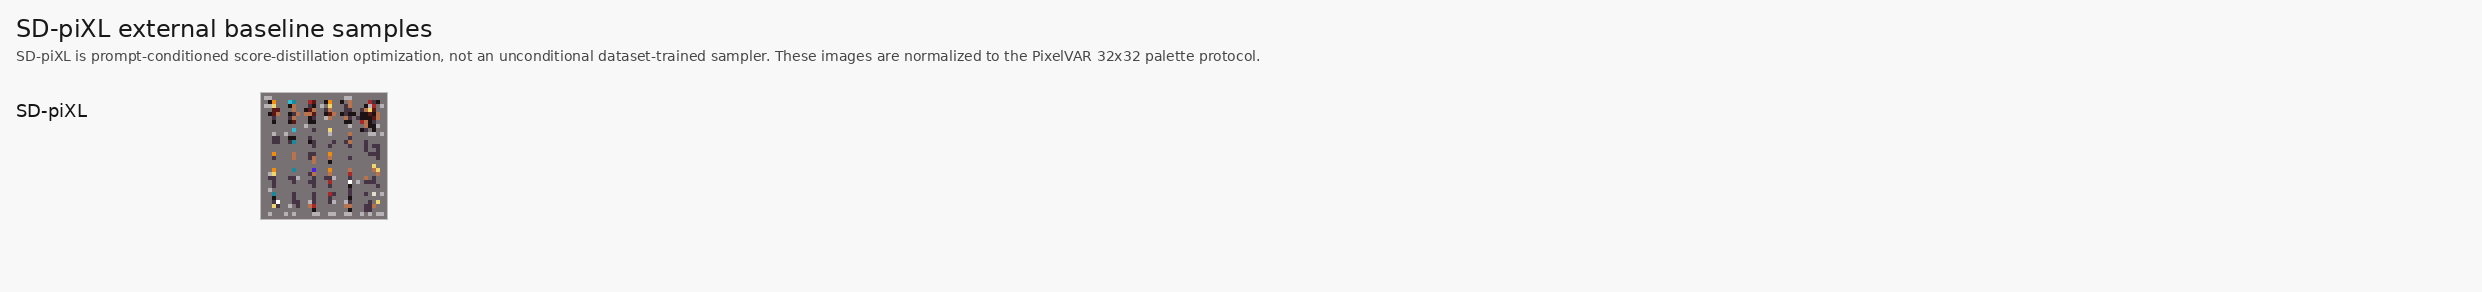
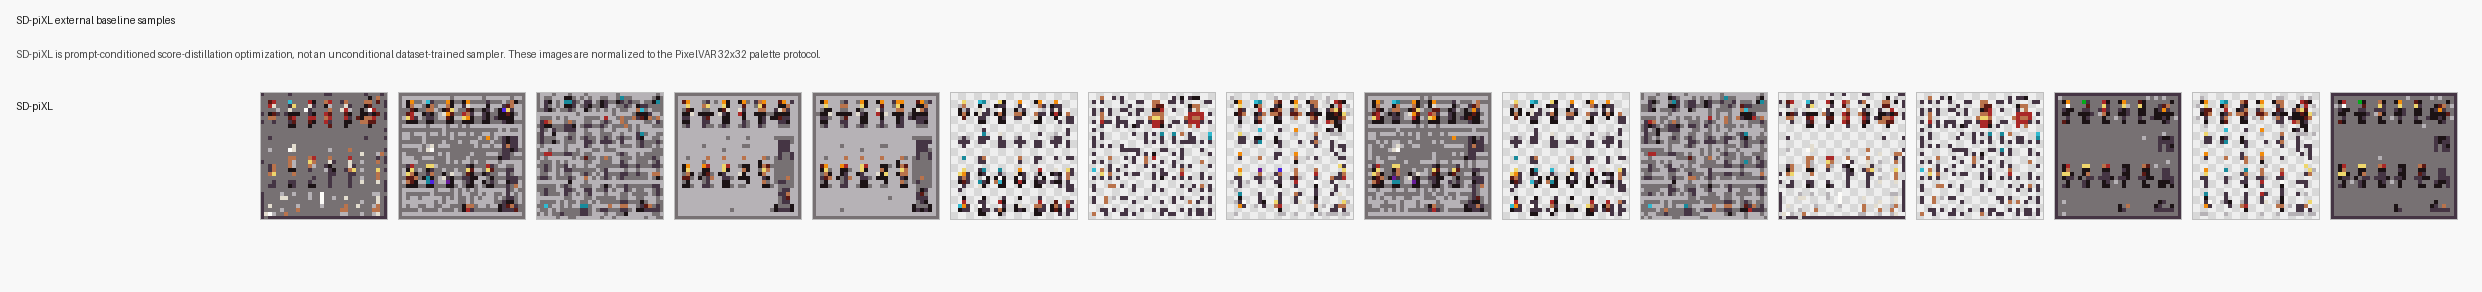
Run SD-piXL metric batch

diff --git a/modal_train.py b/modal_train.py
@@ -903,6 +903,12 @@ def commands_for_action(
             )
 
         prepare_cmd = sd_pixl_prepare_cmd("pixelvar_sd_pixl.yaml", seed=0, prompt_index=sd_pixl_prompt_index)
+        clear_outputs_cmd = (
+            "python -c \"import shutil; from pathlib import Path; "
+            "targets = [Path('outputs/external_baselines/sd_pixl/workdir'), "
+            "Path('outputs/external_baselines/sd_pixl/png32')]; "
+            "[shutil.rmtree(path, ignore_errors=True) for path in targets]\""
+        )
         normalize_cmd = (
             "python scripts/normalize_external_images.py "
             "--input-dir outputs/external_baselines/sd_pixl/workdir "
@@ -910,7 +916,9 @@ def commands_for_action(
             "--output-dir outputs/external_baselines/sd_pixl/png32 "
             "--palette-json data/processed/sprites/palette.json "
             "--image-size 32 "
-            "--prefix sd_pixl"
+            "--prefix sd_pixl "
+            "--transparent-from-corners "
+            "--transparent-tolerance 18.0"
         )
         sheet_cmd = (
             "python scripts/build_sample_sheet_from_folders.py "
@@ -931,8 +939,10 @@ def commands_for_action(
             return ("cpu", [sheet_cmd])
 
         if action == "run-sd-pixl-batch":
-            batch_count = 4 if num_samples == 16 else int(num_samples)
-            commands = []
+            batch_count = int(num_samples)
+            if batch_count <= 0:
+                raise ValueError("--num-samples must be positive for --action run-sd-pixl-batch")
+            commands = [clear_outputs_cmd]
             for idx in range(batch_count):
                 config_name = f"pixelvar_sd_pixl_{idx:03d}.yaml"
                 prompt_index = int(sd_pixl_prompt_index) + idx
@@ -941,7 +951,7 @@ def commands_for_action(
             commands.extend([normalize_cmd, sheet_cmd])
             return ("sd_pixl_gpu", commands)
 
-        return ("sd_pixl_gpu", [prepare_cmd, sd_pixl_run_cmd("pixelvar_sd_pixl.yaml"), normalize_cmd, sheet_cmd])
+        return ("sd_pixl_gpu", [clear_outputs_cmd, prepare_cmd, sd_pixl_run_cmd("pixelvar_sd_pixl.yaml"), normalize_cmd, sheet_cmd])
 
     if action in {
         "run-practical-diffusion-smoke",

diff --git a/reports/final/external_baseline_and_metrics_plan.md b/reports/final/external_baseline_and_metrics_plan.md
@@ -259,17 +259,62 @@ palette-colored blocks rather than a recognizable centered 32x32 character
 sprite. Treat this as a pipeline smoke success, not as a competitive baseline
 result.
 
-Recommendation: do not spend on the larger SD-piXL batch without first tuning
-the SD-piXL setup. The current evidence suggests SD-piXL should remain a
-qualitative related external baseline path, unless we invest extra time in
-prompt/control/reference tuning.
+The one-image smoke run was not a metric result. It only verified the
+environment, downloads, prompt path, palette conversion, and output
+normalization.
 
-Do not treat the one-image smoke run as a metric result. Use it only to verify
-the environment, downloads, prompt path, palette conversion, and output
-normalization. Numeric metrics should only be reported if we generate enough
-SD-piXL samples to make FID/KID/PRDC at least minimally meaningful; for this
-optimization-based method, that may be too expensive and it may remain a
-qualitative related-work baseline.
+## SD-piXL 16-Image Metric Batch
+
+Status on 2026-06-08: completed.
+
+Before the metric run, three SD-piXL adapter issues were corrected:
+
+1. `run-sd-pixl-batch --num-samples 16` previously hit the Modal entrypoint's
+   default-value guard and ran only four fresh optimizations. The batch action
+   now uses the explicit `--num-samples` value.
+2. Old SD-piXL workdir/png32 outputs could leak into a later normalization run.
+   The SD-piXL smoke/batch actions now clear those output folders before
+   generating new results.
+3. SD-piXL normalization now uses the same corner-background transparency
+   cleanup used for the practical diffusion baseline. This reduced opaque-ratio
+   bias, although it did not make the outputs competitive.
+
+Generation command:
+
+```bash
+modal run modal_train.py --action run-sd-pixl-batch --num-samples 16 --sd-pixl-steps 250
+```
+
+Evaluation command:
+
+```bash
+modal run modal_train.py --action cmd-gpu --cmd "python scripts/evaluate_image_folders.py --reference-dir outputs/eval_images/pixelvar_main/reference --generated-dir pixelvar_main=outputs/eval_images/pixelvar_main/pixelvar_main --generated-dir sd_pixl=outputs/external_baselines/sd_pixl/png32 --palette-json data/processed/sprites/palette.json --feature-space inception --max-images 16 --batch-size 16 --kid-subsets 20 --kid-subset-size 8 --msssim-pairs 120 --output-dir outputs/external_eval/main_vs_sd_pixl_16"
+```
+
+Pulled artifacts:
+
+- `reports/external_eval/main_vs_sd_pixl_16/evaluation_report.md`
+- `reports/external_eval/main_vs_sd_pixl_16/metrics.csv`
+- `reports/final/sd_pixl_sample_sheet.png`
+
+Metric result:
+
+| Method | Images | FID | KID mean | Precision | Recall | Density | Coverage | MS-SSIM | Palette consistency | Opaque ratio | Edge density |
+| --- | ---: | ---: | ---: | ---: | ---: | ---: | ---: | ---: | ---: | ---: | ---: |
+| PixelVAR main | 16 | 151.0927 | 0.014713 | 1.0000 | 0.9375 | 1.3500 | 1.0000 | 0.8247 | 1.0000 | 0.2319 | 0.1888 |
+| SD-piXL | 16 | 497.7065 | 0.517647 | 0.0000 | 0.0000 | 0.0000 | 0.0000 | 0.4926 | 1.0000 | 0.6720 | 0.4007 |
+
+Interpretation: SD-piXL is not competitive in this adapted protocol. The
+16-image sheet still looks like noisy tiled color fields rather than centered
+sprite characters. The zero PRDC precision/recall/density/coverage values are
+consistent with that visual result. Palette consistency is 1.0 because all
+outputs are quantized through the PixelVAR palette, not because SD-piXL learned
+the palette distribution.
+
+Recommendation: include SD-piXL as a serious external baseline attempt with
+metrics, but clearly mark it as prompt-conditioned score-distillation adapted to
+our 32x32 protocol. Do not spend on a 64-image SD-piXL run unless we decide to
+tune the SD-piXL setup or need a larger negative result for completeness.
 
 ## Practical Diffusion External Baseline
 
@@ -384,10 +429,11 @@ number. The 64-image smoke already shows a large quality gap versus PixelVAR.
 6. Done: add SD-piXL as the first external released-code baseline path.
 7. Done: run the SD-piXL smoke action on Modal and inspect
    `reports/final/sd_pixl_sample_sheet.png`.
-8. Done: add and run the practical SSD-1B diffusion baseline smoke, then inspect
+8. Done: run a corrected 16-image SD-piXL metric batch against PixelVAR main.
+9. Done: add and run the practical SSD-1B diffusion baseline smoke, then inspect
    `reports/final/practical_diffusion_sample_sheet.png`.
-9. Done: run a 64-image practical-diffusion metric smoke against PixelVAR main.
-10. Next: keep SD-piXL qualitative and practical diffusion as a weak external
-    metric/visual baseline unless we decide to spend on a larger negative result.
-11. Try MDIGAN only if we can adapt its conditional pose task cleanly to our data;
+10. Done: run a 64-image practical-diffusion metric smoke against PixelVAR main.
+11. Next: search/attempt the next targeted external baseline: PixDiff-PIG if
+    code is available, otherwise VQ-Diffusion pixel-art.
+12. Try MDIGAN only if we can adapt its conditional pose task cleanly to our data;
    otherwise cite it as related work rather than a direct numeric baseline.

diff --git a/reports/final/visual_results_deck.md b/reports/final/visual_results_deck.md
@@ -437,22 +437,25 @@ Presentation line:
 
 ## Slide 21 - External Baseline Status
 
-External SD-piXL baseline setup is prepared on the repo side:
+Two external baselines have now been run through the shared 32x32 image-folder
+protocol:
 
-- Prompt file prepared.
-- Palette export script added.
-- External image normalization script added.
-- SD-piXL baseline preparation script added.
-- Modal actions added.
-- Sample sheet and evaluation path prepared.
+| External baseline | Run status | Result |
+| --- | --- | --- |
+| SD-piXL | 16-image metric batch | Valid run, but visually poor and far behind PixelVAR |
+| Practical diffusion / SSD-1B | 64-image metric smoke | Recognizable sprites sometimes, but much worse than PixelVAR |
 
-However, the actual SD-piXL smoke or batch run has not been completed yet.
+SD-piXL is the more targeted related method because it is explicitly about
+pixel-art-like score-distillation generation. However, under our fixed-prompt
+32x32 sprite protocol it produced noisy tiled outputs rather than centered
+characters.
 
 Correct presentation wording:
 
-> The external baseline pipeline is prepared, but real SD-piXL generated samples
-> have not yet been added to the metric table. We should not claim that external
-> comparison is complete.
+> We ran external baselines, but they should be presented carefully. SD-piXL is
+> a serious targeted attempt, yet it fails under our adapted 32x32 sprite
+> protocol. SSD-1B is a practical generic diffusion comparison and should remain
+> secondary.
 
 ## Slide 22 - Final Result Interpretation
 
@@ -466,15 +469,17 @@ Honest quality summary:
 | Flat MaskGIT | Weak | Failed under current setup |
 | Generated/mixed data | Moderate | Larger dataset did not improve real-val quality |
 | Patch-VQ | Technically works | Learned-token path works, but blocky and worse |
-| SD-piXL external | Incomplete | Setup exists, actual run missing |
+| SD-piXL external | Weak | Targeted baseline ran, but metrics and visuals are poor |
+| Practical diffusion | Weak/moderate | Generic diffusion baseline, not directly competitive |
 
 Final claim:
 
 > PixelVAR is a working palette-safe, coarse-to-fine generator for 32x32
 > pixel-art sprites. Among the completed internal models, it is the strongest
 > result on the sprite-feature evaluator with a much cleaner memorization profile
-> than Flat AR. However, without the external diffusion baseline and 64x64
-> experiments, we should not make a broader SOTA claim.
+> than Flat AR. External diffusion baselines do not beat it under our protocol,
+> but without broader external reproductions and 64x64 experiments, we should
+> not make a broader SOTA claim.
 
 ## Slide 23 - Output and Artifact List
 
@@ -487,6 +492,8 @@ Useful files for presentation:
 | Patch-VQ sample sheet | `reports/final/final_patchvq_sample_sheet.png` |
 | Final branch comparison | `reports/final/final_branch_comparison_sheet.png` |
 | Four-way model comparison | `reports/final/four_way_sample_sheet.png` |
+| SD-piXL external sheet | `reports/final/sd_pixl_sample_sheet.png` |
+| Practical diffusion sheet | `reports/final/practical_diffusion_sample_sheet.png` |
 | Model decision table | `reports/final/model_decision_table.md` |
 | Known metrics comparison | `reports/final/known_metrics_comparison.md` |
 | Memorization audit summary | `reports/final/memorization_audit_summary.md` |

diff --git a/reports/final/reproducibility_commands.md b/reports/final/reproducibility_commands.md
@@ -247,27 +247,28 @@ modal volume get pixelvar-outputs /external_baselines/sd_pixl/png32 outputs/exte
 modal volume get pixelvar-outputs /final/sd_pixl_sample_sheet.png reports/final/sd_pixl_sample_sheet.png --force
 ```
 
-Optional small batch. This is expensive because SD-piXL optimizes one image per
-run, so start small:
+Metric batch used in the report. This is expensive because SD-piXL optimizes one
+image per run, so the reported direct metric batch uses 16 samples:
 
 ```bash
-modal run modal_train.py --action run-sd-pixl-batch --num-samples 4 --sd-pixl-steps 1000
+modal run modal_train.py --action run-sd-pixl-batch --num-samples 16 --sd-pixl-steps 250
 modal run modal_train.py --action normalize-sd-pixl-baseline
 modal run modal_train.py --action build-sd-pixl-sample-sheet
 ```
 
-After a real batch exists, evaluate it with the existing external-folder
-protocol:
+Evaluate the 16-image SD-piXL batch with the existing external-folder protocol:
 
 ```bash
-python scripts/evaluate_image_folders.py \
-  --reference-dir outputs/eval_images/pixelvar_main/reference \
-  --generated-dir pixelvar_main=outputs/eval_images/pixelvar_main/pixelvar_main \
-  --generated-dir sd_pixl=outputs/external_baselines/sd_pixl/png32 \
-  --palette-json data/processed/sprites/palette.json \
-  --feature-space inception \
-  --max-images 4096 \
-  --output-dir reports/external_eval/main_vs_sd_pixl
+modal run modal_train.py --action cmd-gpu --cmd "python scripts/evaluate_image_folders.py --reference-dir outputs/eval_images/pixelvar_main/reference --generated-dir pixelvar_main=outputs/eval_images/pixelvar_main/pixelvar_main --generated-dir sd_pixl=outputs/external_baselines/sd_pixl/png32 --palette-json data/processed/sprites/palette.json --feature-space inception --max-images 16 --batch-size 16 --kid-subsets 20 --kid-subset-size 8 --msssim-pairs 120 --output-dir outputs/external_eval/main_vs_sd_pixl_16"
+```
+
+Download the SD-piXL metric artifacts:
+
+```bash
+mkdir -p reports/external_eval/main_vs_sd_pixl_16 reports/final
+modal volume get pixelvar-outputs /external_eval/main_vs_sd_pixl_16/evaluation_report.md reports/external_eval/main_vs_sd_pixl_16/evaluation_report.md --force
+modal volume get pixelvar-outputs /external_eval/main_vs_sd_pixl_16/metrics.csv reports/external_eval/main_vs_sd_pixl_16/metrics.csv --force
+modal volume get pixelvar-outputs /final/sd_pixl_sample_sheet.png reports/final/sd_pixl_sample_sheet.png --force
 ```
 
 ## Practical Diffusion External Baseline

diff --git a/reports/final/final_report_narrative.md b/reports/final/final_report_narrative.md
@@ -38,10 +38,12 @@ ablations:
 | Generated-keep VAR | Evaluated against generated-keep validation | Useful self-reference, not a direct winner comparison |
 | Patch-VQ VAR | Separate decoded RGBA evaluator | Useful learned-token ablation, not a direct winner comparison |
 
-We did not run external baselines such as SD-piXL, MDIGAN, SD LoRA plus
-quantization, raster-scan AR, flat MaskGIT, or a user study. Those remain
-future report/baseline work. The current comparisons are internal ablations
-against held-out validation sprites and visual sample-sheet inspection.
+We ran internal baselines and two external baseline attempts. The internal
+baselines include HMAR, flat raster AR, and flat MaskGIT. The external baselines
+include SD-piXL and practical diffusion / SSD-1B, both normalized to the same
+32x32 PNG protocol before evaluation. MDIGAN, PixDiff-PIG, a stronger matched
+SDXL pixel-art LoRA setup, a user study, and 64x64 generation remain future
+work.
 
 ## Metrics Used
 
@@ -158,6 +160,15 @@ reproduced `3162 / 4096` training images, `365 / 4096` validation images, and
 dataset. Treat flat AR as a memorizing baseline, not as a clean winner.
 
 The four-way visual sheet is `reports/final/four_way_sample_sheet.png`.
+
+External baseline results are also available. SD-piXL was run as a corrected
+16-image metric batch in `reports/external_eval/main_vs_sd_pixl_16`; it is a
+targeted pixel-art-related baseline, but under our protocol its FID/KID and
+PRDC scores are far worse than PixelVAR and its sample sheet is visibly noisy.
+Practical diffusion / SSD-1B was run as a 64-image metric smoke in
+`reports/external_eval/main_vs_practical_diffusion_64`; it sometimes produces
+recognizable sprites, but it is still much worse than PixelVAR and should be
+treated as a secondary generic diffusion baseline.
 
 The same memorization audit was also run for PixelVAR main and HMAR step=1.
 PixelVAR exact-matched `13 / 4096` validation and `11 / 4096` test samples.

diff --git a/reports/external_eval/main_vs_sd_pixl_16/evaluation_report.md b/reports/external_eval/main_vs_sd_pixl_16/evaluation_report.md
@@ -1,0 +1,12 @@
+# External Image-Folder Evaluation
+
+Reference folder: `outputs/eval_images/pixelvar_main/reference`
+Feature space: `inception`
+
+Lower is better for FID, KID, mean MS-SSIM, and pixel nearest-neighbor distance.
+Higher is better for precision, recall, density, coverage, and palette consistency.
+
+| Method | Images | FID | KID mean | Precision | Recall | Density | Coverage | MS-SSIM | Palette consistency | Opaque ratio | Edge density |
+| --- | ---: | ---: | ---: | ---: | ---: | ---: | ---: | ---: | ---: | ---: | ---: |
+| pixelvar_main | 16 | 151.0927 | 0.014713 | 1.0000 | 0.9375 | 1.3500 | 1.0000 | 0.8247 | 1.0000 | 0.2319 | 0.1888 |
+| sd_pixl | 16 | 497.7065 | 0.517647 | 0.0000 | 0.0000 | 0.0000 | 0.0000 | 0.4926 | 1.0000 | 0.6720 | 0.4007 |
